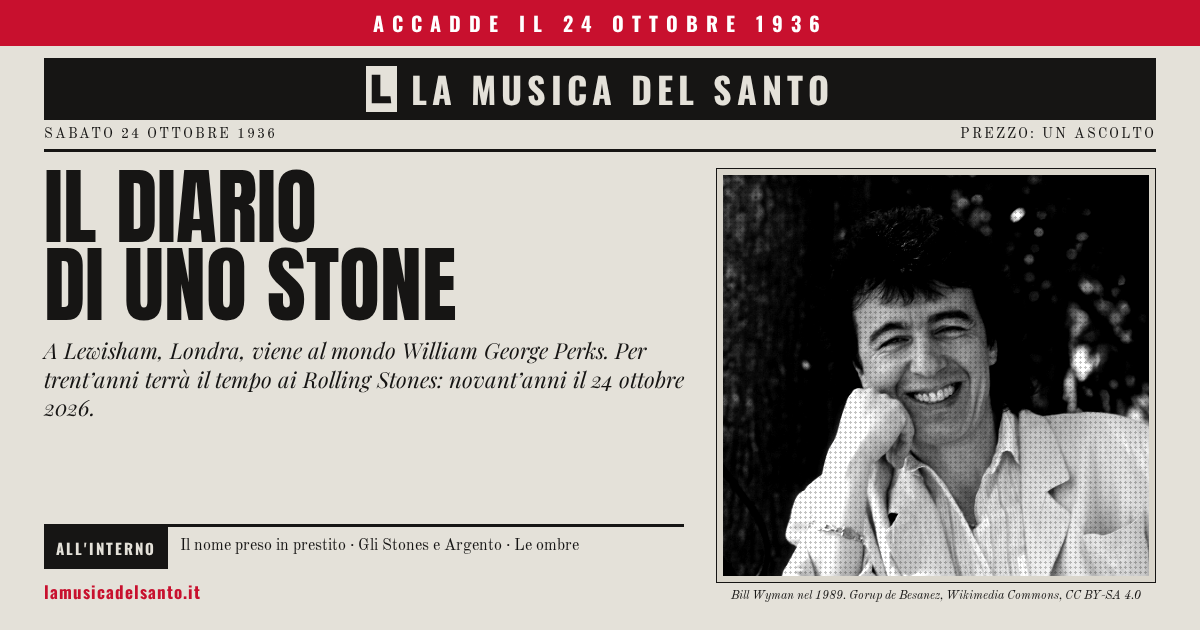
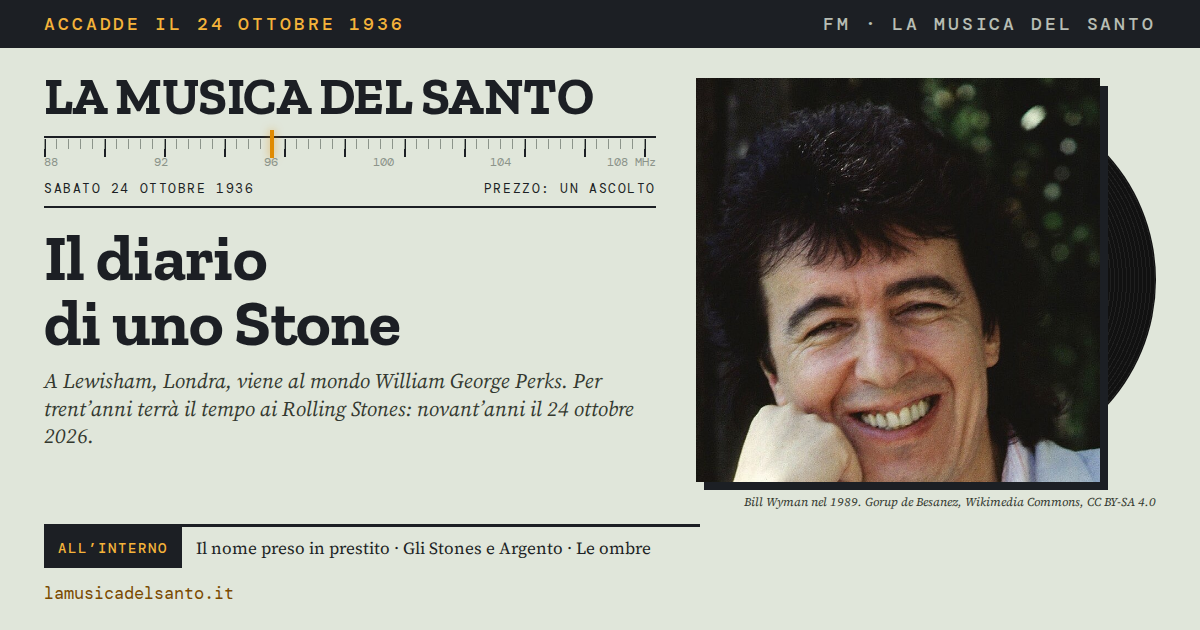
Modello delle grafiche social nello stile del sito (post Instagram, Facebook e storia) e nuove grafiche per Bill Wyman
Claude-Session: https://claude.ai/code/session_01TGFcbUTFqijiPPau5XFnJw

diff --git a/scripts/social/stile.css b/scripts/social/stile.css
@@ -1,0 +1,36 @@
+/* Grafiche social – tema «Sintonia» (ottobre 2026): stessi colori e caratteri del sito */
+@import url('https://fonts.googleapis.com/css2?family=Zilla+Slab:ital,wght@0,600;0,700;1,600&family=Source+Serif+4:ital,opsz,wght@0,8..60,400;0,8..60,600;1,8..60,400&family=DM+Mono:wght@400;500&display=swap');
+:root{--salvia:#E0E6DA;--salvia-2:#D3DACC;--antracite:#1C1F24;--ambra:#E08A00;--ambra-chiara:#F5B33A;--ambra-scura:#7A4A00;--grigio:#8C948A;--testo-2:#33382F;
+--titolo:'Zilla Slab',Rockwell,Georgia,serif;--testo:'Source Serif 4',Georgia,serif;--mono:'DM Mono',ui-monospace,monospace}
+*{box-sizing:border-box;margin:0;padding:0}
+html,body{background:var(--salvia);color:var(--antracite)}
+.tela{position:relative;overflow:hidden;background:var(--salvia)}
+.fascia{background:var(--antracite);color:var(--ambra-chiara);font-family:var(--mono);font-weight:500;text-transform:uppercase;display:flex;justify-content:space-between;align-items:center}
+.fascia .fm{color:var(--salvia);opacity:.8}
+.occhiello-testata{font-family:var(--mono);text-transform:uppercase;text-align:center;color:var(--antracite)}
+.testata{font-family:var(--titolo);font-weight:700;text-align:center;line-height:1;letter-spacing:-.01em}
+.motto{font-family:var(--testo);font-style:italic;text-align:center}
+/* scala delle frequenze con lancetta */
+.scala{position:relative;background:
+  linear-gradient(var(--antracite),var(--antracite)) left 0 top 0/100% 2px no-repeat,
+  repeating-linear-gradient(90deg,var(--grigio) 0 1px,transparent 1px 12px) left 0 top 3px/100% 10px no-repeat,
+  repeating-linear-gradient(90deg,var(--antracite) 0 2px,transparent 2px 60px) left 0 top 3px/100% 18px no-repeat}
+.scala .lancetta{position:absolute;top:-6px;width:4px;background:var(--ambra);box-shadow:0 0 8px rgba(224,138,0,.6)}
+.scala .numeri{position:absolute;left:0;right:0;display:flex;justify-content:space-between;font-family:var(--mono);color:var(--grigio)}
+.riga-data{display:flex;justify-content:space-between;font-family:var(--mono);text-transform:uppercase;border-bottom:2px solid var(--antracite)}
+.titolo{font-family:var(--titolo);font-weight:700;line-height:.98;letter-spacing:-.01em;text-wrap:balance}
+.occhiello{font-family:var(--testo);font-style:italic;line-height:1.3;color:var(--testo-2)}
+/* copertina di LP con il disco che esce dalla busta */
+.lp{position:relative}
+.lp .disco{position:absolute;top:4%;bottom:4%;right:0;aspect-ratio:1;border-radius:50%;
+  background:repeating-radial-gradient(circle,rgba(255,255,255,.06) 0 1px,transparent 1px 4px),radial-gradient(circle,var(--ambra) 0 9%,var(--antracite) 9.5% 10.5%,var(--salvia) 11% 13%,#111 13.5%)}
+.lp .busta{position:relative;z-index:1;aspect-ratio:1;overflow:hidden;box-shadow:8px 8px 0 var(--antracite);background:var(--salvia-2)}
+.lp .busta img{width:100%;height:100%;object-fit:cover;display:block}
+.credito{font-family:var(--testo);font-style:italic;color:var(--testo-2)}
+.testo{font-family:var(--testo);color:var(--testo-2);line-height:1.42}
+.testo p+p{margin-top:.7em}
+.testo p:first-child::first-letter{float:left;font-family:var(--titolo);font-weight:700;color:var(--antracite);font-size:3.3em;line-height:.8;margin:.06em .1em 0 0}
+.interno{display:flex;align-items:stretch;border-top:3px solid var(--antracite)}
+.interno b{background:var(--antracite);color:var(--ambra-chiara);font-family:var(--mono);font-weight:500;text-transform:uppercase;display:flex;align-items:center}
+.interno span{font-family:var(--testo);display:flex;align-items:center}
+.sito{font-family:var(--mono);color:var(--ambra-scura);text-transform:lowercase}

diff --git a/scripts/social/ig.html b/scripts/social/ig.html
@@ -1,0 +1,37 @@
+<!doctype html><html lang="it"><head><meta charset="utf-8"><link rel="stylesheet" href="stile.css">
+<style>
+.tela{width:1080px;height:1350px}
+.fascia{height:66px;padding:0 56px;font-size:24px;letter-spacing:.16em}
+.dentro{padding:0 56px}
+.occhiello-testata{font-size:15px;letter-spacing:.34em;margin-top:24px}
+.testata{font-size:84px;margin-top:8px;white-space:nowrap}
+.motto{font-size:25px;margin-top:6px}
+.scala{height:46px;margin-top:22px}.scala .lancetta{height:34px;left:var(--lancetta,37%)}.scala .numeri{top:22px;font-size:14px}
+.riga-data{font-size:16px;letter-spacing:.12em;padding:10px 0 12px}
+.titolo{font-size:96px;text-align:center;margin-top:20px}
+.occhiello{font-size:25px;text-align:center;margin:12px 30px 0}
+.corpo{display:grid;grid-template-columns:540px 1fr;gap:36px;margin-top:24px;align-items:start}
+.lp{width:540px;padding-right:62px}
+.lp .busta{width:478px}
+.credito{font-size:14px;margin-top:14px}
+.testo{font-size:21px;padding-top:6px}
+.interno{position:absolute;left:56px;right:56px;bottom:36px;height:56px}
+.interno b{padding:0 20px;font-size:18px;letter-spacing:.16em}
+.interno span{padding:0 18px;font-size:22px}
+</style></head><body><div class="tela">
+<div class="fascia"><span>Accadde il {{data_evento}}</span><span class="fm">FM</span></div>
+<div class="dentro">
+<p class="occhiello-testata">Cronache di bella musica</p>
+<h1 class="testata">LA MUSICA DEL SANTO</h1>
+<p class="motto">Guida semiseria per autostoppisti musicali</p>
+<div class="scala"><i class="lancetta"></i><div class="numeri"><span>88</span><span>92</span><span>96</span><span>100</span><span>104</span><span>108 MHz</span></div></div>
+<div class="riga-data"><span>{{giorno_epoca}}</span><span>Prezzo: un ascolto</span></div>
+<h2 class="titolo">{{titolo}}</h2>
+<p class="occhiello">{{occhiello}}</p>
+<div class="corpo">
+ <div><div class="lp"><i class="disco"></i><div class="busta"><img src="{{foto}}" style="object-position:{{fuoco}}"></div></div><p class="credito">{{credito}}</p></div>
+ <div class="testo"><p>{{testo1}}</p><p>{{testo2}}</p></div>
+</div>
+</div>
+<div class="interno"><b>All’interno</b><span>{{interno}}</span></div>
+</div></body></html>

diff --git a/scripts/social/storia.html b/scripts/social/storia.html
@@ -1,0 +1,29 @@
+<!doctype html><html lang="it"><head><meta charset="utf-8"><link rel="stylesheet" href="stile.css">
+<style>
+/* Storia Instagram 1080x1920: in alto e in basso ~220px restano liberi per l'interfaccia di Instagram;
+   lo spazio vuoto sotto la freccia (circa 1500-1680 px dall'alto) è il posto dove incollare lo sticker «Link». */
+.tela{width:1080px;height:1920px}
+.fascia{position:absolute;top:220px;left:0;right:0;height:70px;padding:0 64px;font-size:26px;letter-spacing:.16em}
+.dentro{position:absolute;top:320px;left:64px;right:64px}
+.testata{font-size:76px;white-space:nowrap}
+.scala{height:50px;margin-top:22px}.scala .lancetta{height:38px;left:var(--lancetta,37%)}.scala .numeri{top:24px;font-size:15px}
+.nuovo{font-family:var(--mono);text-transform:uppercase;letter-spacing:.2em;font-size:22px;color:var(--ambra-scura);text-align:center;margin-top:34px}
+.titolo{font-size:116px;text-align:center;margin-top:12px}
+.occhiello{font-size:30px;text-align:center;margin-top:18px}
+.lp{width:600px;padding-right:70px;margin:40px auto 0}
+.lp .busta{width:530px}
+.credito{font-size:16px;text-align:center;margin-top:18px}
+.freccia{position:absolute;left:0;right:0;bottom:360px;text-align:center;font-family:var(--titolo);font-size:42px}
+</style></head><body><div class="tela">
+<div class="fascia"><span>Accadde il {{data_evento}}</span><span class="fm">FM</span></div>
+<div class="dentro">
+ <h1 class="testata">LA MUSICA DEL SANTO</h1>
+ <div class="scala"><i class="lancetta"></i><div class="numeri"><span>88</span><span>92</span><span>96</span><span>100</span><span>104</span><span>108 MHz</span></div></div>
+ <p class="nuovo">Nuovo sul blog</p>
+ <h2 class="titolo">{{titolo}}</h2>
+ <p class="occhiello">{{occhiello_storia}}</p>
+ <div class="lp"><i class="disco"></i><div class="busta"><img src="{{foto}}" style="object-position:{{fuoco}}"></div></div>
+ <p class="credito">{{credito_breve}}</p>
+</div>
+<p class="freccia">Leggi la storia completa ↓</p>
+</div></body></html>

diff --git a/scripts/social/fb.html b/scripts/social/fb.html
@@ -1,0 +1,32 @@
+<!doctype html><html lang="it"><head><meta charset="utf-8"><link rel="stylesheet" href="stile.css">
+<style>
+.tela{width:1200px;height:630px}
+.fascia{height:48px;padding:0 44px;font-size:18px;letter-spacing:.16em}
+.griglia{display:grid;grid-template-columns:1fr 460px;gap:40px;padding:0 44px}
+.testata{font-size:52px;text-align:left;margin-top:22px}
+.scala{height:36px;margin-top:14px}.scala .lancetta{height:28px;left:var(--lancetta,37%)}.scala .numeri{top:18px;font-size:12px}
+.riga-data{font-size:13px;letter-spacing:.12em;padding:8px 0 9px}
+.titolo{font-size:66px;margin-top:18px}
+.occhiello{font-size:21px;margin-top:12px}
+.lp{width:460px;padding-right:56px;margin-top:30px}
+.lp .busta{width:404px}
+.credito{font-size:12px;margin-top:12px;text-align:right}
+.interno{position:absolute;left:44px;width:656px;bottom:62px;height:44px}
+.interno b{padding:0 14px;font-size:14px;letter-spacing:.14em}
+.interno span{padding:0 14px;font-size:17px}
+.sito{position:absolute;left:44px;bottom:26px;font-size:17px}
+</style></head><body><div class="tela">
+<div class="fascia"><span>Accadde il {{data_evento}}</span><span class="fm">FM · La musica del Santo</span></div>
+<div class="griglia">
+ <div>
+  <h1 class="testata">LA MUSICA DEL SANTO</h1>
+  <div class="scala"><i class="lancetta"></i><div class="numeri"><span>88</span><span>92</span><span>96</span><span>100</span><span>104</span><span>108 MHz</span></div></div>
+  <div class="riga-data"><span>{{giorno_epoca}}</span><span>Prezzo: un ascolto</span></div>
+  <h2 class="titolo">{{titolo}}</h2>
+  <p class="occhiello">{{occhiello}}</p>
+ </div>
+ <div><div class="lp"><i class="disco"></i><div class="busta"><img src="{{foto}}" style="object-position:{{fuoco}}"></div></div><p class="credito">{{credito_breve}}</p></div>
+</div>
+<div class="interno"><b>All’interno</b><span>{{interno}}</span></div>
+<p class="sito">lamusicadelsanto.it</p>
+</div></body></html>

diff --git a/scripts/social/LEGGIMI.md b/scripts/social/LEGGIMI.md
@@ -1,0 +1,14 @@
+# Grafiche social (tema «Sintonia»)
+
+Stessi colori e caratteri del sito: fondo salvia, antracite, ambra; Zilla Slab, Source Serif 4, DM Mono.
+Struttura: fascia «Accadde il …», testata, scala FM con lancetta, data d'epoca e «Prezzo: un ascolto»,
+titolo, occhiello, foto come copertina di LP con il disco che esce, due brevi testi, barra «All'interno».
+
+1. Copia `dati/bill-wyman-90-anni.json` in `dati/<slug>.json` e cambia i testi
+   (titolo con `<br>` per andare a capo; `fuoco` = punto della foto da tenere al centro, es. "50% 30%").
+2. `NODE_PATH=$(npm root -g) node scripts/social/genera.cjs scripts/social/dati/<slug>.json`
+   (serve Playwright; se manca: `npm i -g playwright`).
+3. Escono `public/social/<slug>-ig.jpg` (1080×1350, JPEG per Instagram), `public/social/<slug>-fb.png` (1200×630)
+   e `public/social/<slug>-storia.jpg` (1080×1920, storia Instagram: lo spazio vuoto sotto la freccia è il posto dello sticker «Link»,
+   che Marco aggiunge dall'app; serve il campo `occhiello_storia`).
+   Se compare «il contenuto esce dalla tela», accorcia titolo, occhiello o testi.
